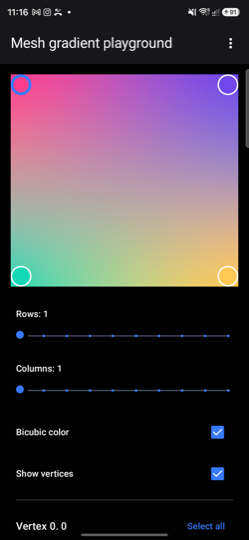
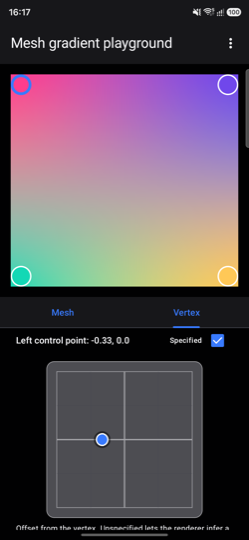
Reshoot the README screenshots for the tabbed panel
The first two columns become Mesh tab and Vertex tab, which is what they
now show. The control point shot finally lives up to its name: it was a
picture of the rows and columns sliders, and is now the left control point
at -0.33, 0.0 on its zero-centred pad — the offsets-from-the-vertex point
the README otherwise only makes in prose.

Taken with SystemUI demo mode on, so the status bar no longer carries
personal notification icons.

diff --git a/README.md b/README.md
@@ -3,7 +3,7 @@
 An Android app for designing mesh gradients with Jetpack Compose's `MeshGradientPainter`, and for
 getting the result back out as an image or as the Kotlin that draws it.
 
-| Playground | Control points | Saved meshes | Full screen |
+| Mesh tab | Vertex tab | Saved meshes | Full screen |
 |---|---|---|---|
 | <img src="docs/playground.png" width="200"> | <img src="docs/control-point.png" width="200"> | <img src="docs/saved-meshes.png" width="200"> | <img src="docs/full-screen.png" width="200"> |
 
